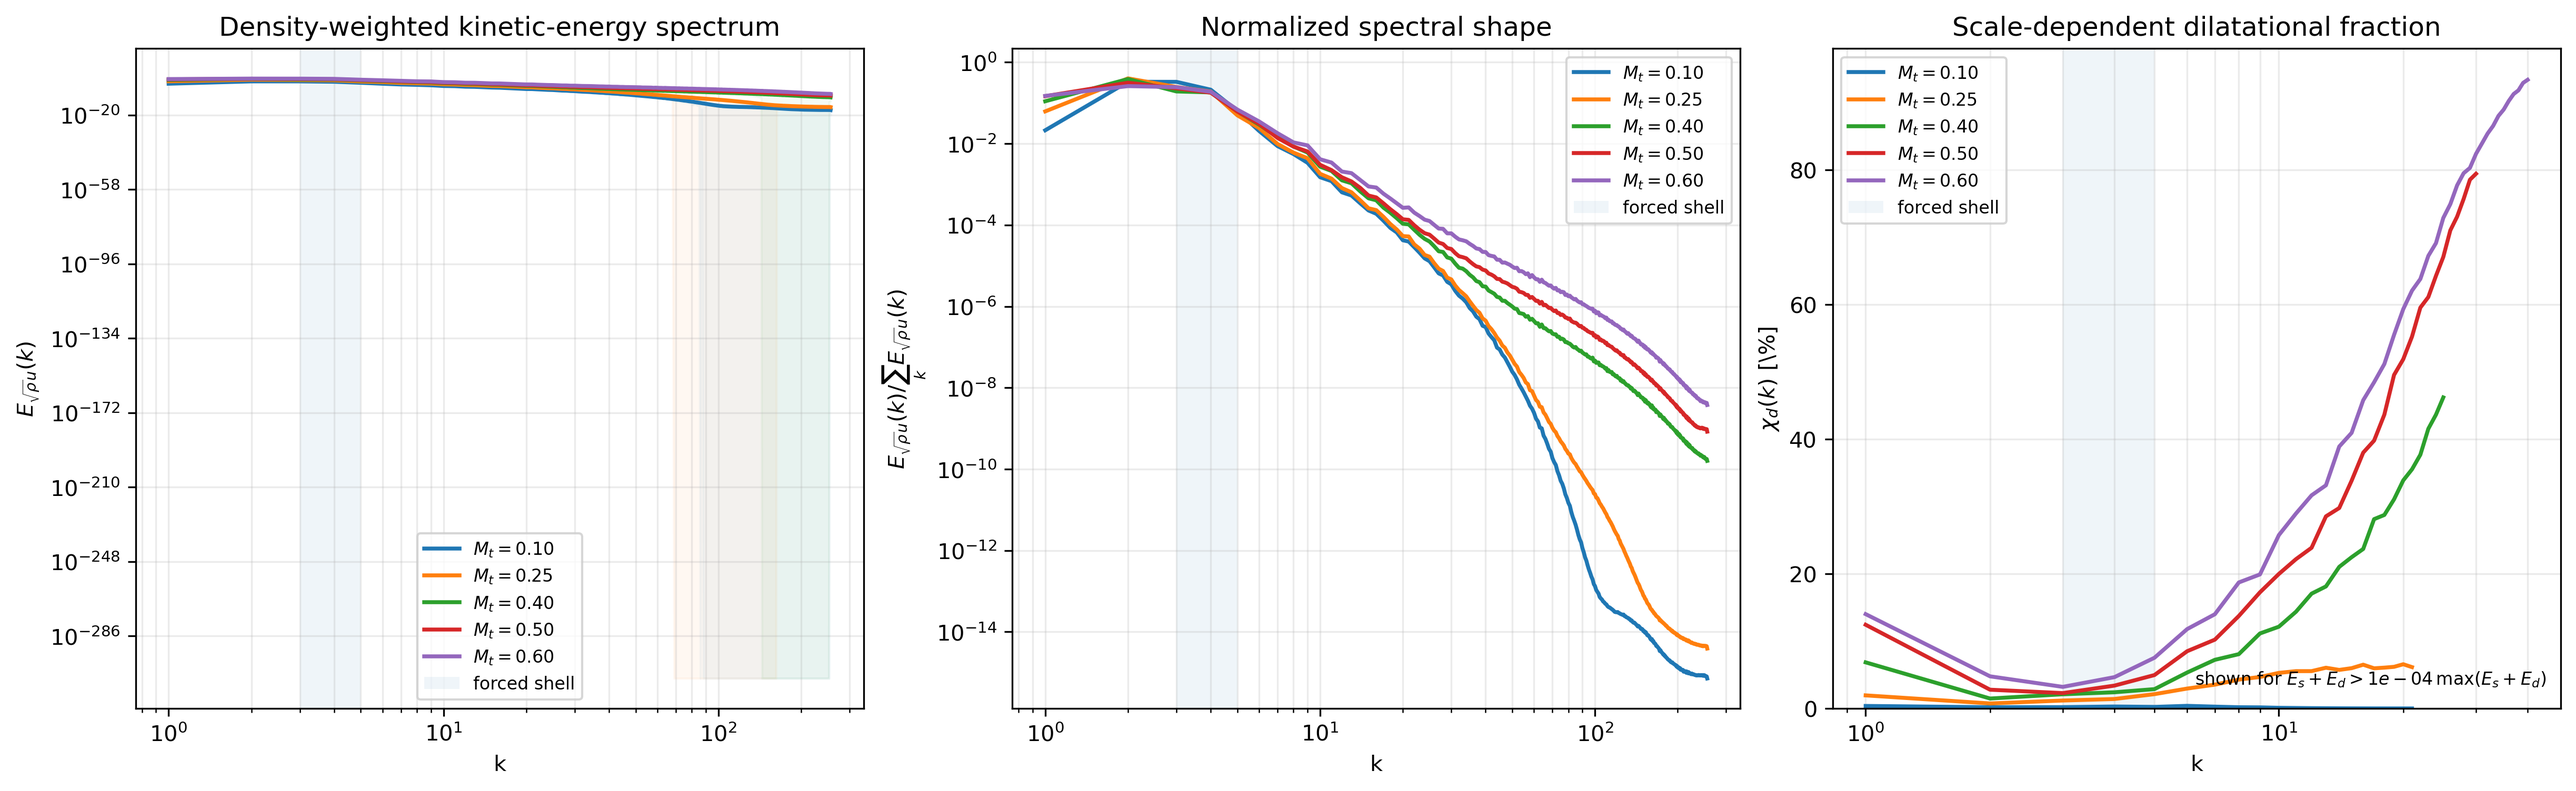
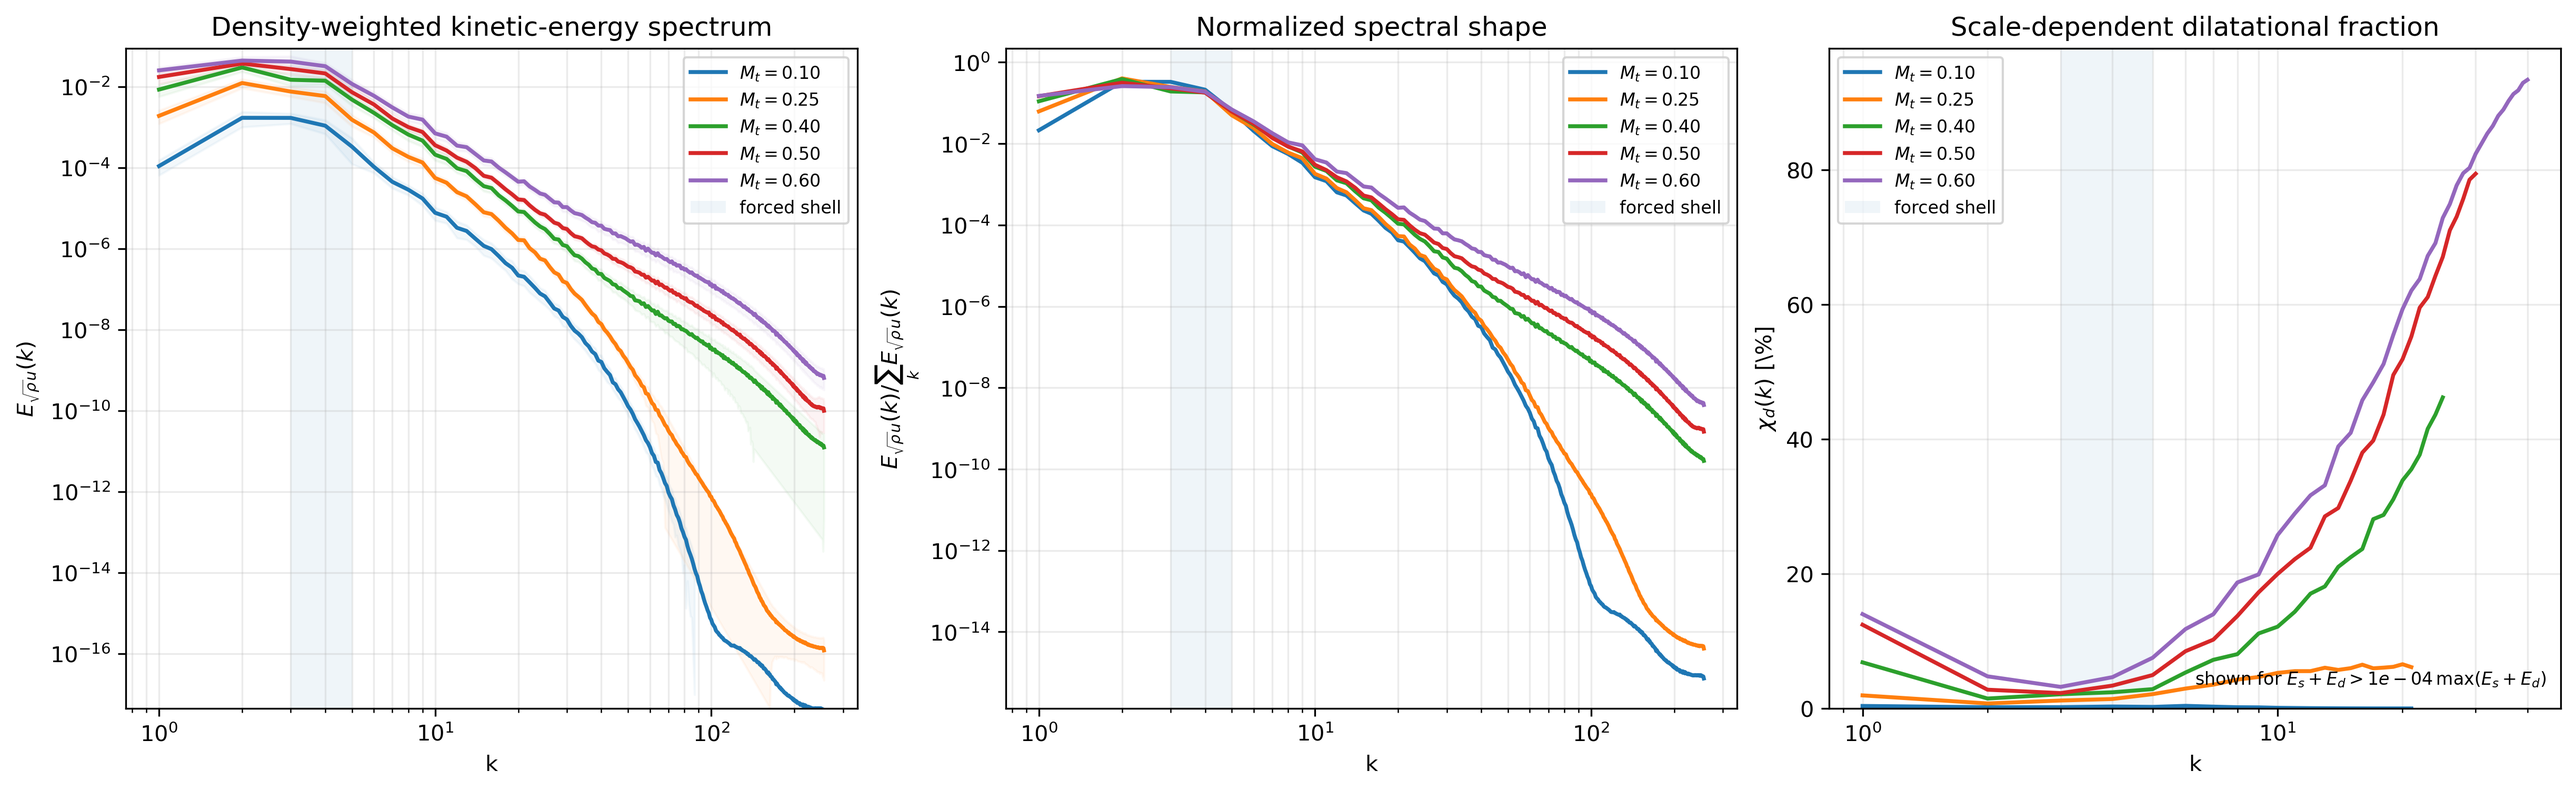
plot fix

diff --git a/scripts/plot_final_thesis_polished.py b/scripts/plot_final_thesis_polished.py
@@ -33,6 +33,16 @@ def parse_args() -> argparse.Namespace:
     p.add_argument("--end-turnover", type=float, default=16.0)
     p.add_argument("--target-re", type=float, default=130.0)
     p.add_argument("--chi-relative-floor", type=float, default=1.0e-4)
+    p.add_argument(
+        "--absolute-spectrum-relative-floor",
+        type=float,
+        default=1.0e-16,
+        help=(
+            "Lower display floor for the absolute density-weighted spectrum, "
+            "relative to the largest plotted spectral value. This only controls "
+            "plot limits/uncertainty shading; it does not alter the spectrum."
+        ),
+    )
     p.add_argument("--dpi", type=int, default=300)
     p.add_argument("--field-machs", nargs=2, type=float, default=(0.10, 0.60))
     return p.parse_args()
@@ -158,7 +168,7 @@ def shade_forcing(ax, shell):
         ax.axvspan(kmin, kmax, alpha=0.07, label="forced shell")
 
 
-def plot_spectra(cases, output_dir, dpi, chi_floor):
+def plot_spectra(cases, output_dir, dpi, chi_floor, absolute_floor):
     loaded = []
     forcing_shell = None
     for mt, case in cases:
@@ -190,6 +200,30 @@ def plot_spectra(cases, output_dir, dpi, chi_floor):
     if len(loaded) < 2:
         return None
 
+    # Determine the visible range from the *mean spectra only*.  Previously the
+    # lower edge of an uncertainty band was clipped to np.finfo(float).tiny
+    # whenever E-sigma became negative.  On a logarithmic axis that artificial
+    # ~1e-308 value forced the y-axis to span hundreds of decades.  The display
+    # floor below is only a plotting safeguard: no spectral values are modified.
+    plotted_means = []
+    for rec in loaded:
+        k = rec["k"]
+        Edw = rec["Edw"]
+        shell_id = np.arange(k.size)
+        valid = (
+            (k > 0) & (shell_id <= rec["complete"]) &
+            np.isfinite(Edw) & (Edw > 0)
+        )
+        if np.any(valid):
+            plotted_means.append(Edw[valid])
+
+    mean_values = np.concatenate(plotted_means)
+    mean_peak = float(np.nanmax(mean_values))
+    positive_mean_min = float(np.nanmin(mean_values))
+    relative_display_floor = max(float(absolute_floor), 0.0) * mean_peak
+    spectrum_ymin = max(0.5 * positive_mean_min, relative_display_floor)
+    spectrum_ymax = 2.0 * mean_peak
+
     fig, axes = plt.subplots(1, 3, figsize=(16.2, 4.9), constrained_layout=True)
     for rec in loaded:
         k, Edw, Es, Ed = rec["k"], rec["Edw"], rec["Es"], rec["Ed"]
@@ -199,10 +233,20 @@ def plot_spectra(cases, output_dir, dpi, chi_floor):
         line = axes[0].loglog(k[valid], Edw[valid], lw=1.8, label=label)[0]
         if rec["Edw_std"] is not None:
             std = rec["Edw_std"]
-            lo = np.maximum(Edw - std, np.finfo(float).tiny)
+            lo = Edw - std
             hi = Edw + std
-            shade = valid & np.isfinite(lo) & np.isfinite(hi) & (hi > 0)
-            axes[0].fill_between(k[shade], lo[shade], hi[shade], alpha=0.05, color=line.get_color())
+            # Draw the uncertainty envelope only where its lower bound remains
+            # positive and inside the meaningful visible range.  This avoids
+            # creating an artificial ~1e-308 lower limit on a log axis.
+            shade = (
+                valid & np.isfinite(lo) & np.isfinite(hi) &
+                (lo > spectrum_ymin) & (hi > lo)
+            )
+            if np.any(shade):
+                axes[0].fill_between(
+                    k[shade], lo[shade], hi[shade],
+                    alpha=0.05, color=line.get_color()
+                )
 
         total = float(np.sum(np.maximum(Edw, 0.0)))
         if total > 0:
@@ -232,6 +276,7 @@ def plot_spectra(cases, output_dir, dpi, chi_floor):
     axes[0].set_title("Density-weighted kinetic-energy spectrum")
     axes[0].set_xlabel("k")
     axes[0].set_ylabel(r"$E_{\sqrt{\rho}u}(k)$")
+    axes[0].set_ylim(spectrum_ymin, spectrum_ymax)
     axes[1].set_title("Normalized spectral shape")
     axes[1].set_xlabel("k")
     axes[1].set_ylabel(r"$E_{\sqrt{\rho}u}(k)/\sum_k E_{\sqrt{\rho}u}(k)$")
@@ -526,7 +571,7 @@ def main():
 
     outputs = []
     for path in (
-        plot_spectra(cases, out, a.dpi, a.chi_relative_floor),
+        plot_spectra(cases, out, a.dpi, a.chi_relative_floor, a.absolute_spectrum_relative_floor),
         plot_trends(rows, out, a.target_re, a.dpi),
         plot_pdf_moments(rows, out, a.dpi),
     ):

diff --git a/README_final_thesis_polish_fix.md b/README_final_thesis_polish_fix.md
@@ -1,0 +1,52 @@
+# Final thesis post-processing — spectrum-axis fix
+
+This update fixes only the presentation of the absolute density-weighted kinetic-energy spectrum in `final_mach_spectra_polished.png`.
+
+The previous uncertainty band used `np.finfo(float).tiny` whenever `E(k)-sigma_E(k)` became negative. On a logarithmic y-axis that artificial value (~1e-308) forced the absolute-spectrum panel to span hundreds of decades. The underlying spectra were not wrong.
+
+The corrected plotting routine:
+
+- determines the absolute-spectrum y-range from the positive **mean spectra**, not from clipped uncertainty-band values;
+- draws the temporal uncertainty envelope only where `E(k)-sigma_E(k)` remains positive and inside the meaningful plotted range;
+- leaves every spectral value and all saved diagnostics unchanged;
+- retains the `chi_d(k)` energetic cutoff introduced in the previous polishing pass.
+
+The default lower plotting safeguard is `1e-16` times the largest mean spectral value. It is only a display floor and does not alter data.
+
+## Install
+
+```bash
+cd ~/github/HIT_Solver
+
+unzip -o ~/Downloads/final_thesis_spectrum_plot_fix.zip -d .
+
+chmod +x scripts/postprocess_final_thesis_polished.sh
+```
+
+## Rerun the polished post-processing
+
+```bash
+cd ~/github/HIT_Solver
+
+./scripts/postprocess_final_thesis_polished.sh
+```
+
+The existing `thesis_uncertainty_diagnostics.npz` files are reused automatically, so no CFD simulation is rerun and the expensive snapshot-by-snapshot uncertainty calculation is not repeated.
+
+To force uncertainty recomputation only if desired:
+
+```bash
+RECOMPUTE_UNCERTAINTY=1 ./scripts/postprocess_final_thesis_polished.sh
+```
+
+To manually modify the spectrum plotting floor, for example:
+
+```bash
+ABS_SPECTRUM_FLOOR=1e-15 ./scripts/postprocess_final_thesis_polished.sh
+```
+
+Outputs remain under:
+
+```text
+results/hit2d/final_thesis_Mach_ReL130_N512/thesis_postprocess/
+```
